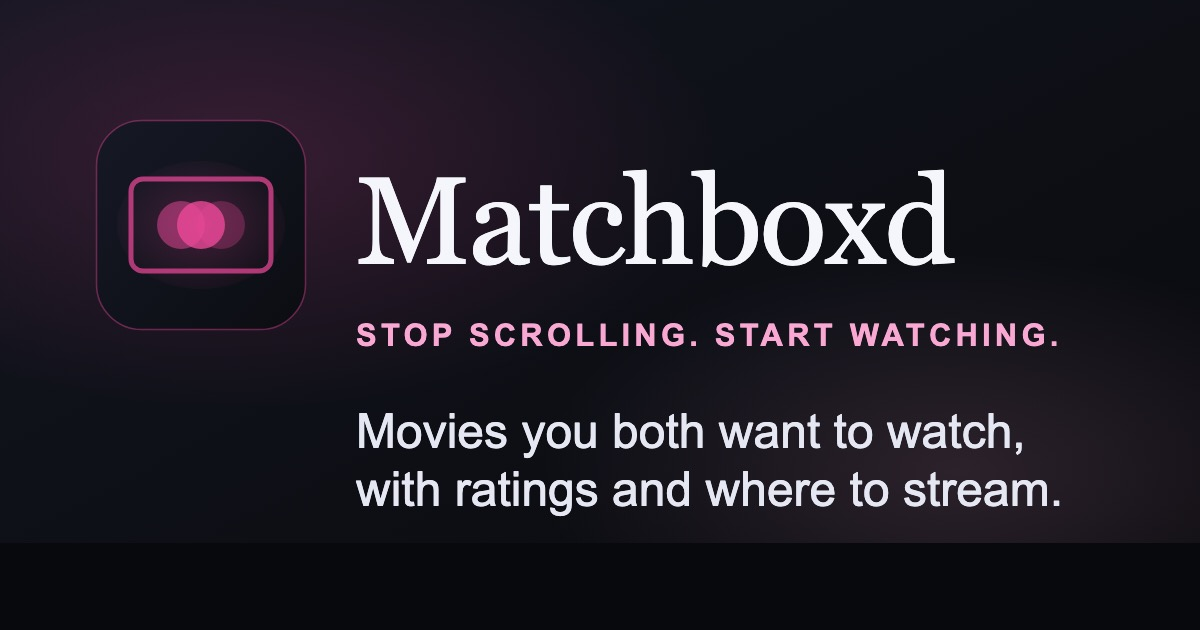
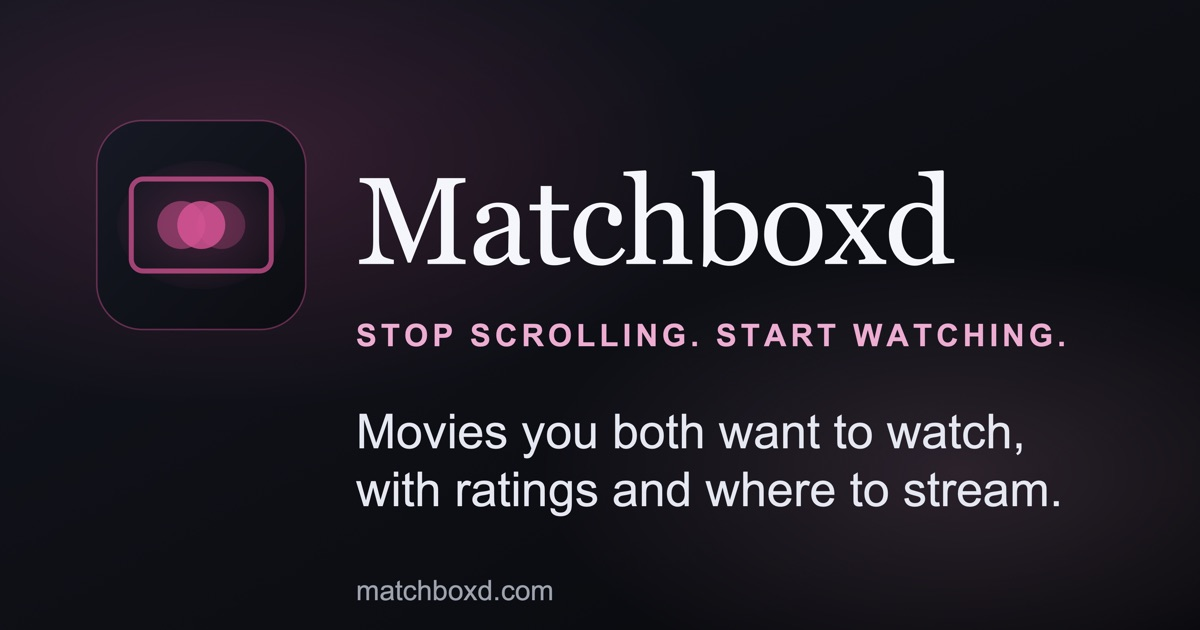
Use cropped social share image

diff --git a/index.html b/index.html
@@ -15,9 +15,9 @@
     <meta property="og:title" content="Matchboxd — Stop scrolling. Start watching." />
     <meta property="og:description" content="Movies you both want to watch, with ratings and where to stream." />
     <meta property="og:url" content="https://matchboxd.com/" />
-    <meta property="og:image" content="https://matchboxd.com/social-preview.jpg?v=3" />
-    <meta property="og:image:url" content="https://matchboxd.com/social-preview.jpg?v=3" />
-    <meta property="og:image:secure_url" content="https://matchboxd.com/social-preview.jpg?v=3" />
+    <meta property="og:image" content="https://matchboxd.com/social-preview.jpg?v=4" />
+    <meta property="og:image:url" content="https://matchboxd.com/social-preview.jpg?v=4" />
+    <meta property="og:image:secure_url" content="https://matchboxd.com/social-preview.jpg?v=4" />
     <meta property="og:image:type" content="image/jpeg" />
     <meta property="og:image:width" content="1200" />
     <meta property="og:image:height" content="630" />
@@ -25,8 +25,8 @@
     <meta name="twitter:card" content="summary_large_image" />
     <meta name="twitter:title" content="Matchboxd — Stop scrolling. Start watching." />
     <meta name="twitter:description" content="Movies you both want to watch, with ratings and where to stream." />
-    <meta name="twitter:image" content="https://matchboxd.com/social-preview.jpg?v=3" />
-    <meta name="twitter:image:src" content="https://matchboxd.com/social-preview.jpg?v=3" />
+    <meta name="twitter:image" content="https://matchboxd.com/social-preview.jpg?v=4" />
+    <meta name="twitter:image:src" content="https://matchboxd.com/social-preview.jpg?v=4" />
     <meta name="twitter:image:alt" content="Matchboxd logo and tagline on a dark background" />
     <meta name="apple-mobile-web-app-capable" content="yes" />
     <meta name="apple-mobile-web-app-status-bar-style" content="black-translucent" />
